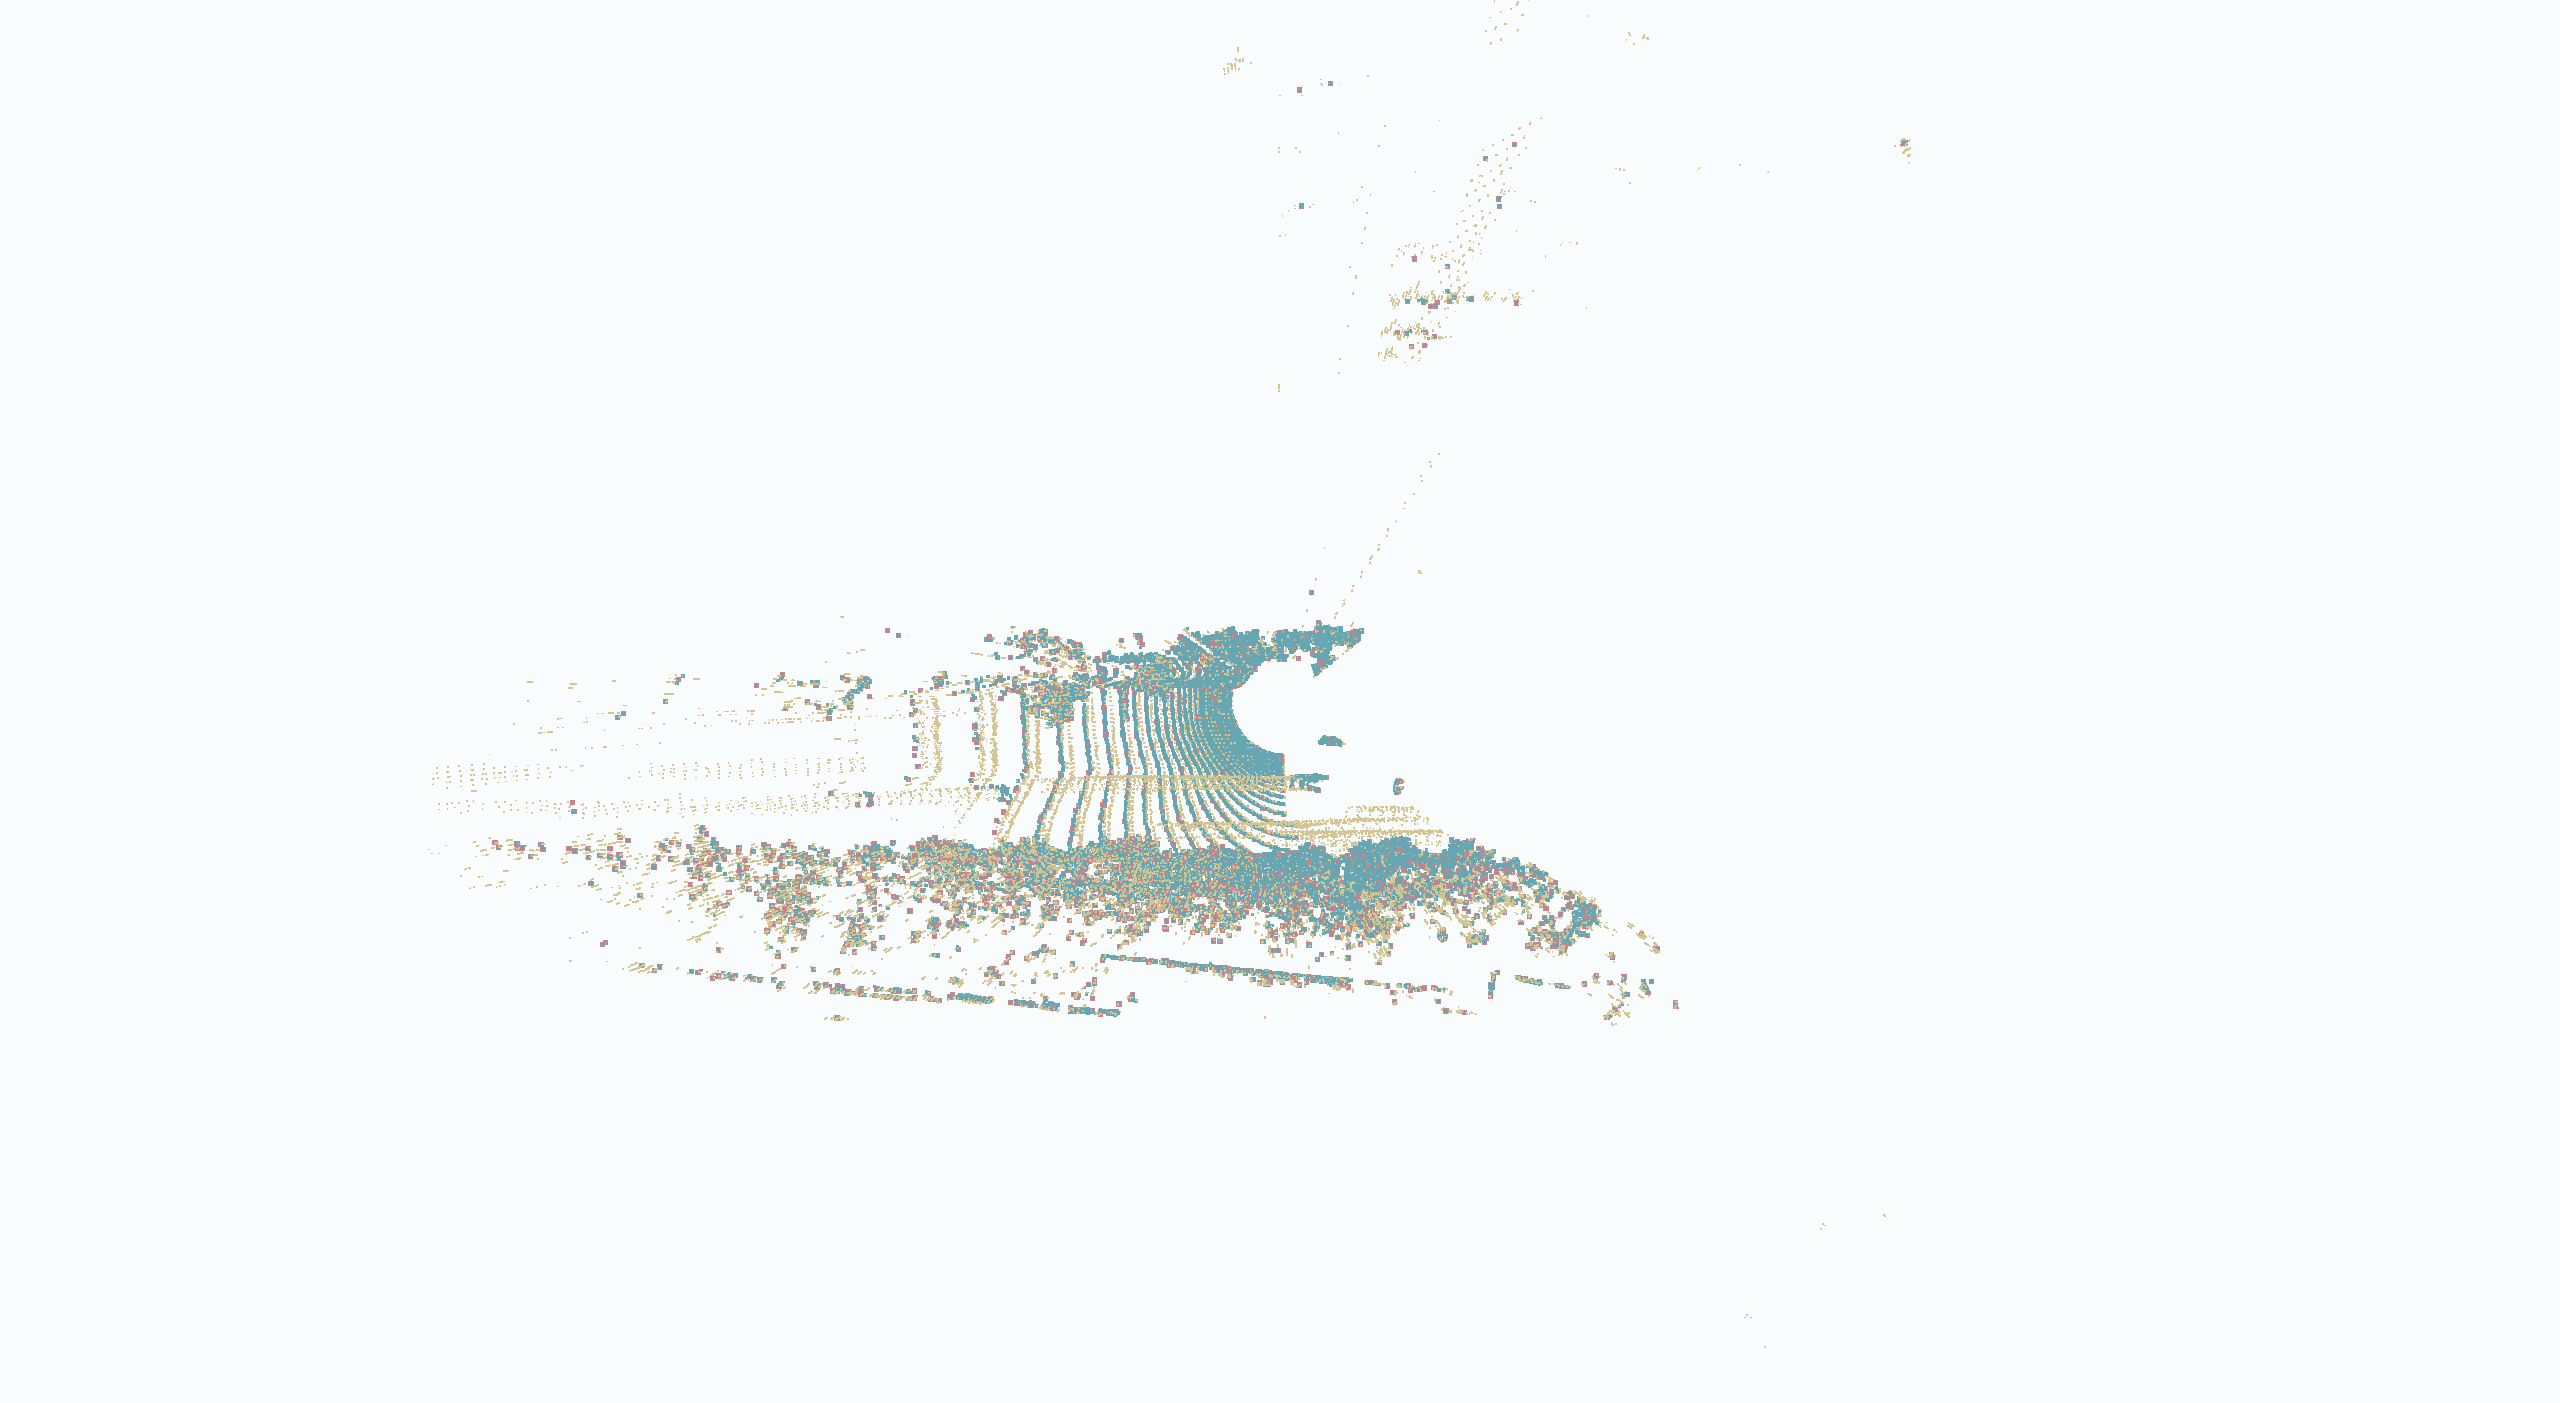
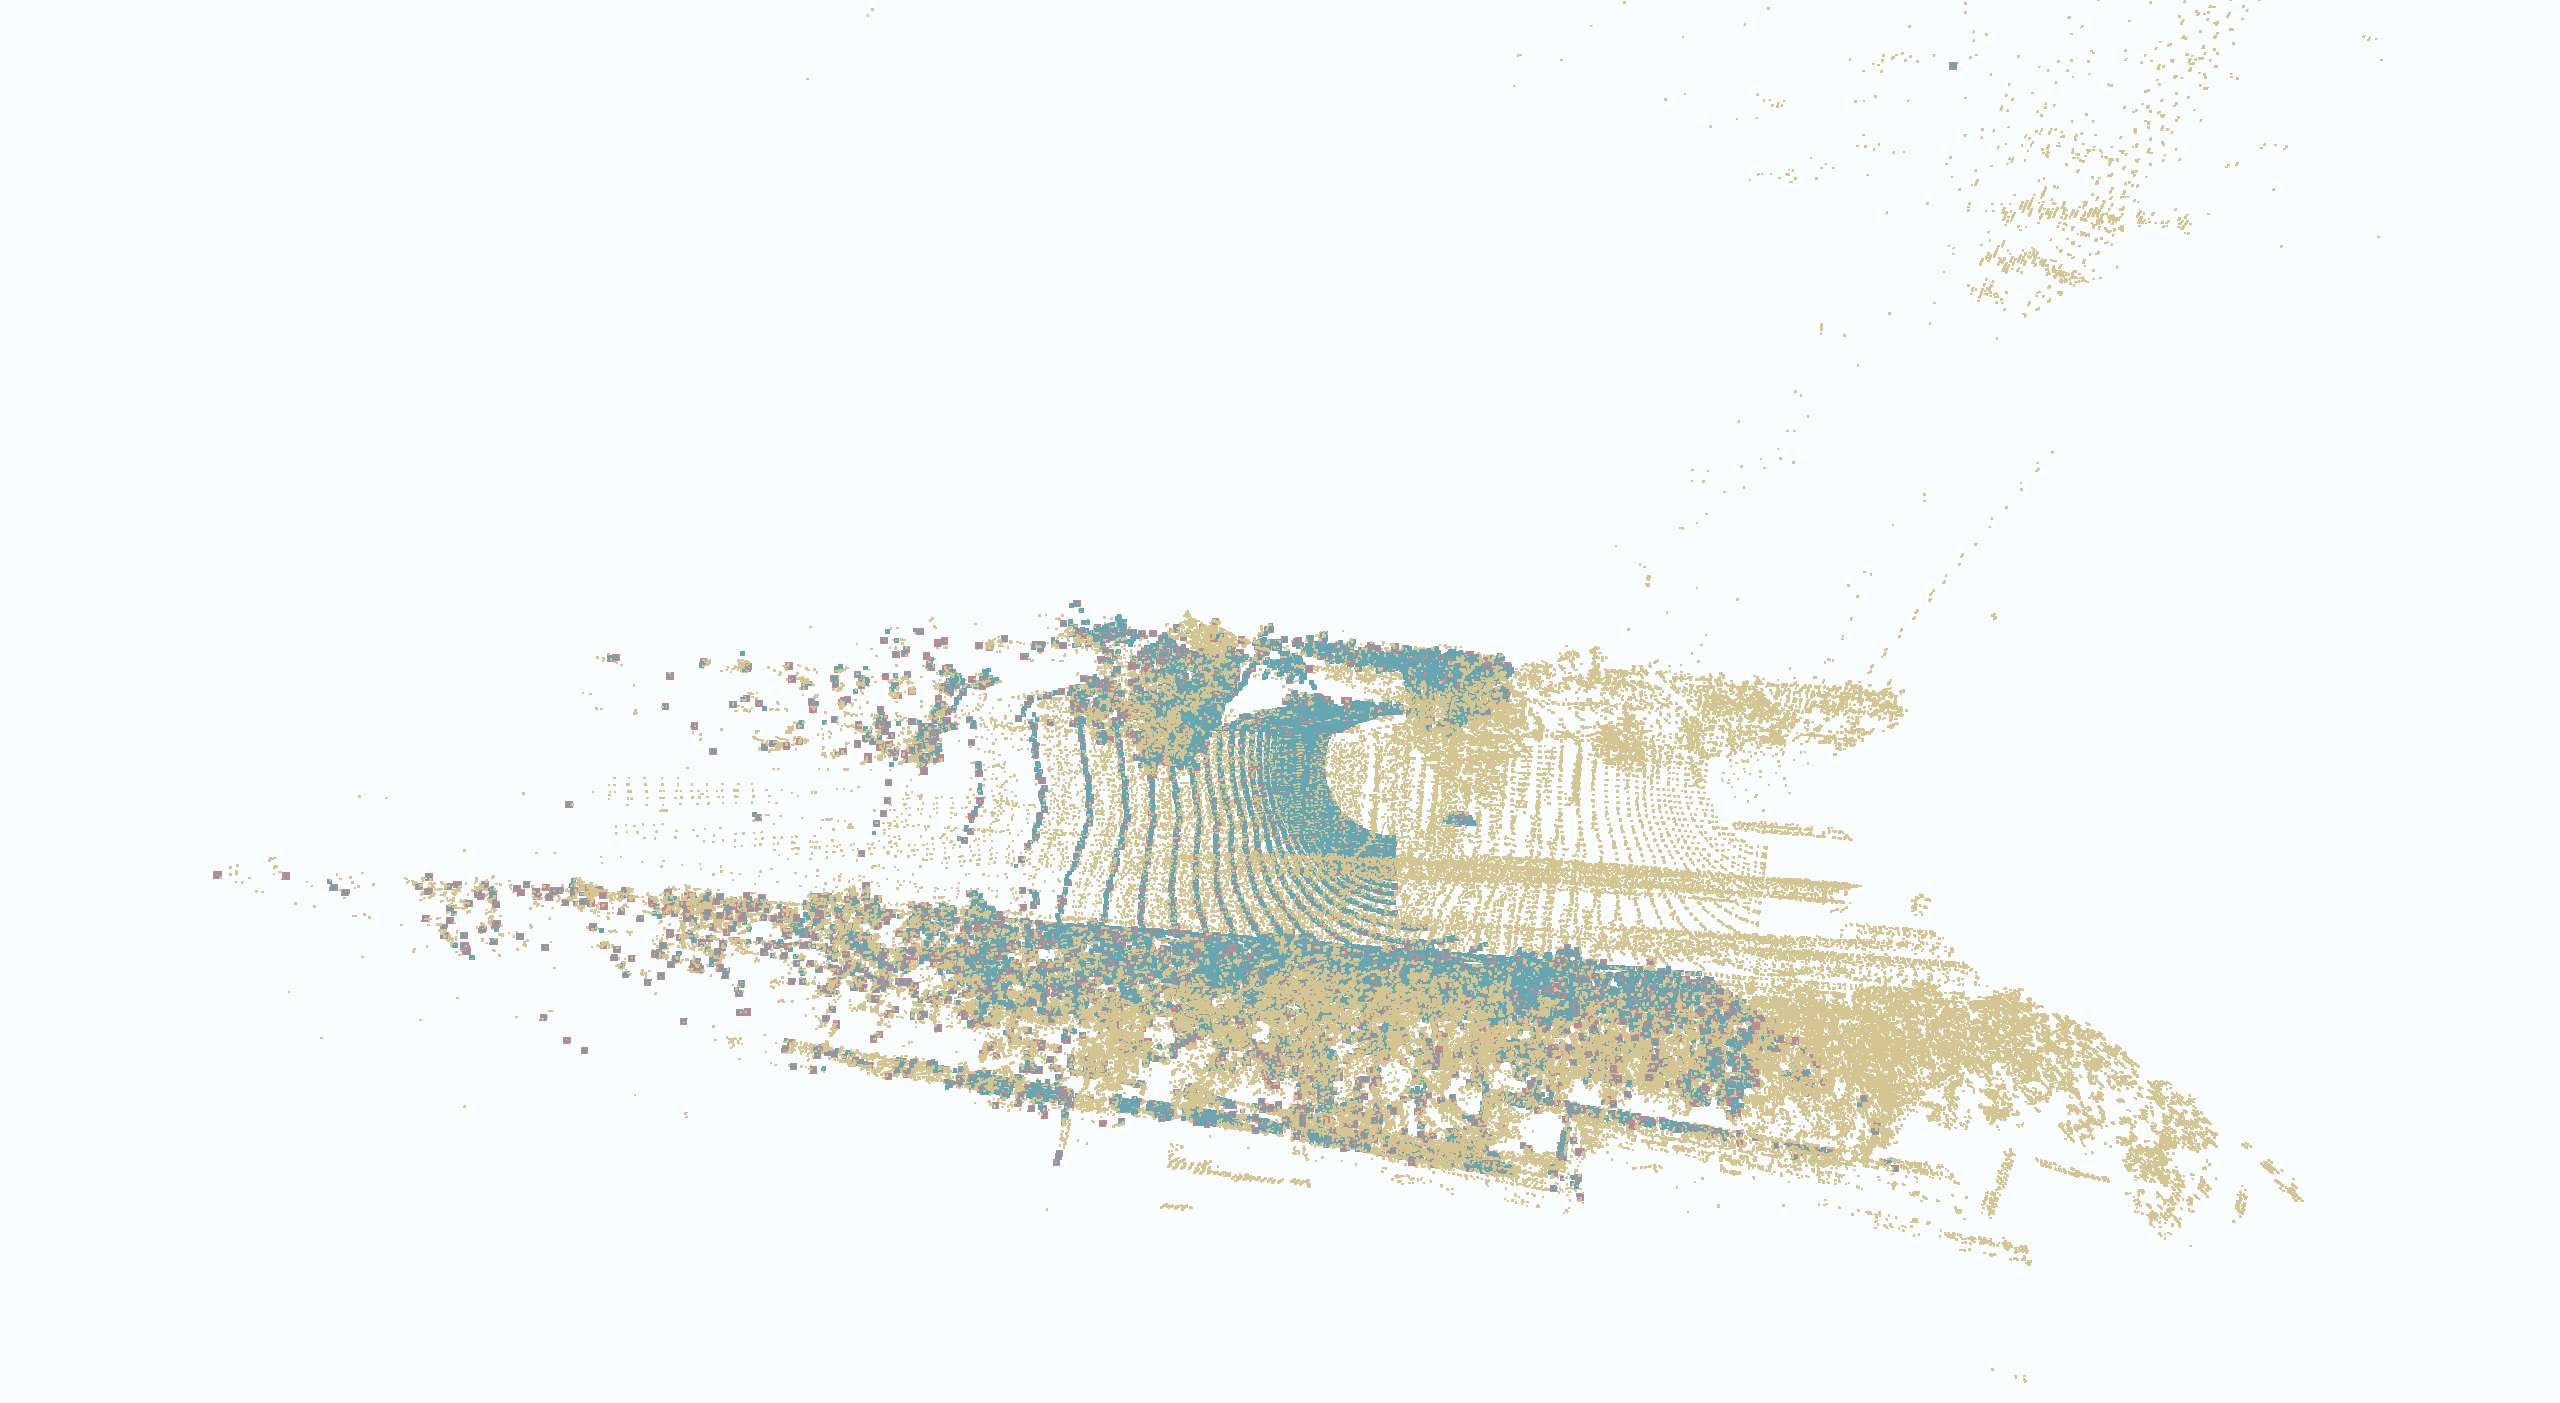
Some button key added

diff --git a/python/kiss_icp/tools/visualizer.py b/python/kiss_icp/tools/visualizer.py
@@ -43,12 +43,16 @@ class StubVisualizer(ABC):
 
 def start_pause_callback():
     button_name = "PAUSE" if Kissualizer.play_mode else "START"
-    if Kissualizer.polyscope.imgui.Button(button_name):
+    if Kissualizer.polyscope.imgui.Button(button_name) or Kissualizer.polyscope.imgui.IsKeyPressed(
+        Kissualizer.polyscope.imgui.ImGuiKey_Space
+    ):
         Kissualizer.play_mode = not Kissualizer.play_mode
 
 
 def next_frame_callback():
-    if Kissualizer.polyscope.imgui.Button("NEXT FRAME"):
+    if Kissualizer.polyscope.imgui.Button("NEXT FRAME") or Kissualizer.polyscope.imgui.IsKeyPressed(
+        Kissualizer.polyscope.imgui.ImGuiKey_N
+    ):
         Kissualizer.block_execution = not Kissualizer.block_execution
 
 
@@ -151,7 +155,11 @@ def global_view_callback():
 
 
 def quit_callback():
-    if Kissualizer.polyscope.imgui.Button("QUIT"):
+    if (
+        Kissualizer.polyscope.imgui.Button("QUIT")
+        or Kissualizer.polyscope.imgui.IsKeyPressed(Kissualizer.polyscope.imgui.ImGuiKey_Escape)
+        or Kissualizer.polyscope.imgui.IsKeyPressed(Kissualizer.polyscope.imgui.ImGuiKey_Q)
+    ):
         print("Destroying Visualizer")
         Kissualizer.polyscope.unshow()
         os._exit(0)
@@ -174,8 +182,6 @@ def main_gui_callback():
     quit_callback()
 
 
-# TODO: add screenshot
-# New colorscheme
 class Kissualizer(StubVisualizer):
     # Static parameters
     polyscope = None
@@ -221,7 +227,7 @@ class Kissualizer(StubVisualizer):
         Kissualizer.polyscope.set_verbosity(0)
         Kissualizer.polyscope.set_build_gui(False)
         Kissualizer.polyscope.set_open_imgui_window_for_user_callback(True)
-        Kissualizer.polyscope.set_autoscale_structures(False)
+        Kissualizer.polyscope.set_autoscale_structures(True)
         Kissualizer.polyscope.set_user_callback(main_gui_callback)
 
     def _update_geometries(self, source, keypoints, target_map, pose):
